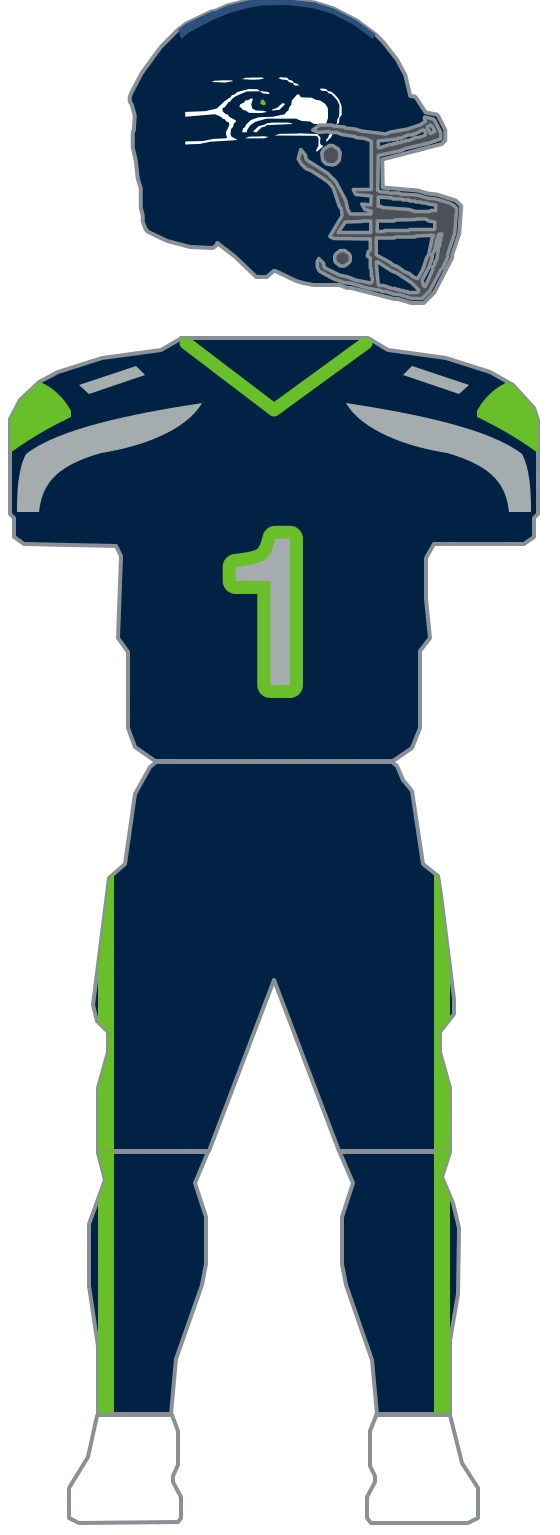
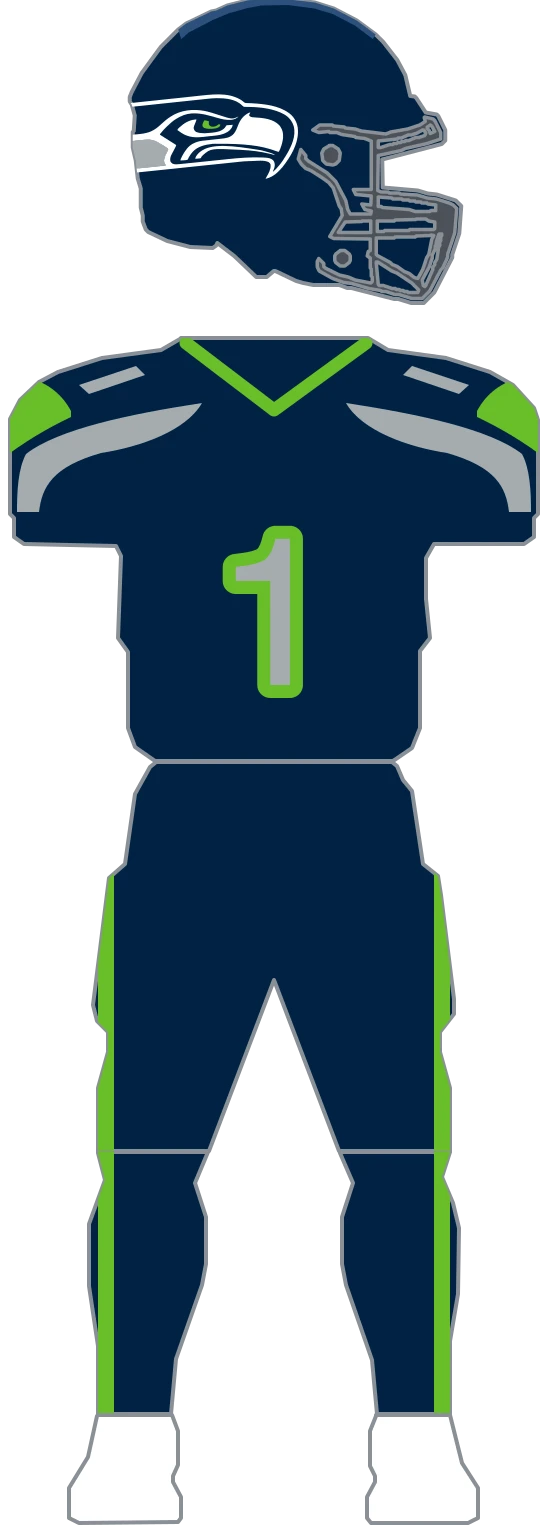
feat(uniforms): re-author the Seahawks helmet decal from a gate-passing reference (#659)
* feat(uniforms): re-author the Seahawks helmet decal from a gate-passing reference

The shipped decal was traced off the 46px GUD composite, where the hawk's white
keyline survives as 7 disconnected fragments totalling 31px. At helmet scale it
read as a field of slivers, and it was also placed wrong: half the size the
reference shows, centred instead of running to the rear edge, and missing the
wolf-grey wing entirely.

Re-traced at 1200px (thinnest white channel 20px = 1.67% of mark width; keyline
resolves to one component and holds under a 0.75x downscale), then scaled,
positioned and baked into raw helmet coordinates -- UniformLayer has no
transform field, so placement cannot live anywhere but the path data.

Placement is measured from the GUD helmet composite rather than the logo, which
is a separate failure axis from linework: 80% of shell width, flush to the rear
edge, 32% down, no rotation. A 0/-8/-15 degree sweep against the reference
picked 0 -- the mark reads as angled because of its own swept tail.

Three rasters change (home, away, rivalries -- full variant only; the jersey
crop excludes the helmet). Installed iOS builds fetch by URL and pick this up,
which is intended: accuracy is the bar (Decisions.md 2026-09-03).

* fix(uniforms): place the Seahawks decal as a wrapped mark, not a flat one

Three corrections from review, the first structural. A helmet decal wraps a
curved shell, so in a 2D side view its rear converges and disappears around the
[…]

Changed region(s): [[0.2429, 0.0306, 0.6071, 0.1225]]

diff --git a/lib/uniforms/teams/seahawks.ts b/lib/uniforms/teams/seahawks.ts
@@ -30,13 +30,46 @@ export const SEAHAWKS_HELMET_CENTER_COLOR = '#2B507C';
 // (Wikimedia `File:Seattle Seahawks logo.svg`, fair use; trademarked). Licence audit: the vault’s
 // Decisions.md, 2026-09-03.
 //
-// Produced by contour-tracing the decal's white keyline (upsampled 10x, Douglas-Peucker simplified)
-// and mapping it into raw helmet coordinates. The keyline is filled white and the shell reads
-// through the counters, which is why no navy backing shape is needed on the navy home/away shells.
+// Re-authored 2026-09-03 from a reference that clears the resolution gate, replacing a trace off
+// the 46px GUD composite whose keyline survived as 7 disconnected fragments totalling 31px. The
+// mark is traced at 1200px wide (thinnest white channel 20px = 1.67% of mark width; keyline
+// resolves to one component and holds under a 0.75x downscale), then scaled, positioned and
+// baked into raw helmet coordinates -- UniformLayer has no transform field, so placement cannot
+// live anywhere but the path data.
+//
+// PLACEMENT is measured from the GUD *helmet* composite, not from the logo, and is a separate
+// concern from linework -- getting the linework right and the placement wrong is what made the
+// first two passes well-drawn and obviously wrong. Three facts drive it, and the first is the one
+// that is easy to miss:
+//
+//   1. THE MARK IS NOT FULLY VISIBLE. A helmet decal wraps a curved shell, so in a 2D side view
+//      its rear converges and disappears around the back. The mark is therefore authored WIDER
+//      than the space it occupies and positioned to overhang the shell's rear edge (x=139), with
+//      `clip: true` trimming it. Scaling the whole logo to fit inside the silhouette -- which is
+//      the obvious thing to do -- shows the entire tail and reads wrong immediately.
+//   2. THE FRONT ANCHORS TO A LANDMARK. The beak tip reaches the facemask's left edge (x=476 in
+//      raw helmet space, the min x of the facemask geometry) and stops. That is a checkable
+//      target rather than a judgement, and it is what sets the scale: 66% of shell width.
+//   3. IT TILTS. -6 degrees, rising toward the front. Note an affine transform cannot reproduce
+//      the true foreshortening of a wrapped decal (the tail should compress toward the rear, not
+//      merely be cut off); -6 plus the rear clip is the closest approximation this renderer can
+//      express, and it is good enough at the sizes this art is consumed at.
+//
+// Final: 66% of shell width, right edge at x=476, top edge 30% down, -6 degrees. Verified side by
+// side against the helmet reference at matched scale, which is the acceptance check.
+//
+// Three layers now, painted grey -> white -> eye. The grey wing was MISSING from the previous
+// decal entirely: only the white channels and the eye were traced, so the mark lost the element
+// the reference puts at the lower rear. The navy body is still not painted -- it merges with the
+// navy shell, which is why the counters read through. That is correct for home and away and is a
+// known gap on the teal rivalries shell, tracked separately.
 export const SEAHAWKS_HELMET_HAWK_PATH =
-  'M439.9,222.4 L454.0,223.5 L457.2,227.5 L464.3,229.2 L467.0,233.6 L472.4,234.8 L478.3,238.7 L470.2,239.2 L467.5,238.1 L465.4,234.2 L458.3,232.5 L453.5,228.0 L442.1,226.9 L436.1,224.1 L439.9,223.0 Z M381.5,223.0 L404.8,223.0 L407.5,224.7 L398.8,226.9 L385.3,227.5 L363.6,226.3 L370.7,223.5 L381.5,223.5 Z M319.8,228.6 L342.5,228.6 L345.8,230.3 L330.1,233.1 L302.5,232.0 L309.5,229.2 L319.8,229.2 Z M520.5,244.8 L531.9,246.0 L535.2,249.9 L542.2,251.6 L549.2,257.2 L557.3,266.7 L562.8,280.7 L562.8,298.1 L558.4,303.7 L557.3,313.8 L553.0,316.6 L551.9,325.6 L548.1,328.4 L541.7,342.4 L533.5,350.8 L531.4,350.8 L532.5,346.3 L535.7,343.5 L537.3,338.5 L542.2,334.5 L549.8,317.7 L553.0,316.0 L554.1,307.1 L557.9,300.3 L558.4,277.9 L553.0,267.3 L542.2,256.1 L536.8,254.4 L533.5,250.5 L522.7,249.3 L520.0,247.7 L520.5,245.4 Z M375.5,246.0 L394.5,246.5 L398.8,249.9 L416.7,252.1 L418.8,256.1 L405.3,254.9 L399.3,250.5 L372.8,251.0 L350.6,260.5 L343.1,266.2 L339.8,271.2 L336.6,272.3 L329.0,282.4 L324.7,284.1 L324.7,290.3 L330.1,295.9 L335.0,297.0 L337.7,301.5 L351.2,308.8 L351.2,311.6 L346.9,315.5 L345.8,321.7 L341.4,326.1 L340.4,337.3 L342.5,341.3 L355.0,348.0 L299.8,351.4 L279.2,355.8 L250.0,357.0 L250.0,350.8 L284.1,350.2 L306.8,345.8 L331.7,344.6 L333.9,342.4 L331.2,336.2 L331.7,331.7 L338.2,318.3 L337.1,312.7 L332.2,311.0 L329.0,306.5 L324.7,305.4 L322.0,302.0 L309.5,296.4 L250.0,301.5 L250.0,291.9 L289.5,290.3 L312.8,285.2 L329.0,270.1 L340.9,262.2 L343.1,258.3 L349.0,256.6 L353.9,252.1 L375.5,246.5 Z M475.1,256.6 L477.8,256.6 L479.4,260.5 L482.7,262.8 L502.2,263.3 L511.9,267.8 L520.0,269.0 L530.3,276.2 L535.2,284.1 L535.7,303.7 L529.7,321.7 L523.8,321.7 L517.8,316.6 L506.5,315.5 L500.0,311.0 L483.2,309.9 L471.3,305.4 L412.3,305.4 L390.1,311.6 L380.4,318.3 L375.0,325.6 L372.3,332.9 L363.6,332.3 L365.8,324.5 L369.6,322.2 L371.2,317.7 L380.9,308.2 L396.6,302.6 L425.3,301.5 L449.1,296.4 L451.3,292.5 L456.2,289.1 L457.8,283.0 L462.1,277.4 L463.2,269.0 L473.5,257.2 L475.1,257.2 Z M381.5,264.5 L385.3,265.6 L382.0,276.8 L384.2,285.2 L392.3,289.1 L406.9,289.7 L413.4,291.9 L401.5,294.2 L377.2,293.6 L371.2,289.1 L365.3,288.0 L362.5,284.1 L358.2,281.8 L359.8,276.8 L367.4,272.9 L370.1,269.0 L375.5,268.4 L381.5,265.0 Z M443.2,274.6 L448.0,274.6 L449.1,277.4 L438.3,287.5 L423.7,289.1 L424.2,286.9 L433.4,284.1 L443.2,275.1 Z M421.0,313.2 L455.6,313.2 L462.7,314.4 L463.7,316.0 L413.4,318.3 L408.5,321.7 L402.6,322.8 L392.3,332.9 L386.4,331.7 L386.9,329.5 L397.2,320.0 L407.5,317.7 L414.0,314.4 L421.0,313.8 Z M476.2,334.5 L514.1,336.2 L520.5,343.0 L519.5,354.2 L521.6,358.1 L525.4,358.7 L524.9,361.5 L513.5,371.0 L511.9,370.4 L511.9,367.6 L516.2,360.3 L516.8,346.9 L515.1,341.8 L511.3,339.6 L428.6,339.0 L438.3,335.7 L476.2,335.1 Z M404.2,340.2 L416.7,341.8 L408.5,344.6 L369.6,344.6 L377.7,341.3 L404.2,340.7 Z';
+  'M90.5,265.4C91.8,265.6 92.2,265.7 93.1,266.7C99.9,273.2 106.2,276.7 115.7,276.6C118.6,276.6 121.4,276.2 124.1,275.9C124.9,275.8 125.6,275.7 126.4,275.7C128.4,275.5 130.5,275.2 132.5,275.0C134.7,274.8 136.9,274.5 139.1,274.3C142.9,273.9 146.7,273.5 150.5,273.1C156.1,272.5 161.6,271.9 167.1,271.3C169.7,271.1 172.3,270.8 174.9,270.5C175.1,270.5 175.4,270.5 175.7,270.4C181.8,269.8 187.9,269.1 194.1,268.5C194.2,268.5 194.2,268.5 194.9,268.4C199.5,267.9 204.2,267.4 208.8,266.9C212.6,266.5 216.4,266.1 220.2,265.7C220.5,265.7 220.7,265.7 221.0,265.6C227.1,265.0 233.2,264.3 239.4,263.7C239.6,263.6 239.9,263.6 240.1,263.6C242.7,263.3 245.3,263.0 247.9,262.8C253.4,262.2 258.9,261.6 264.4,261.0C268.5,260.6 272.5,260.2 276.5,259.7C278.7,259.5 280.9,259.3 283.0,259.0C290.7,258.2 298.4,257.4 306.2,257.0C306.4,257.0 306.7,257.0 307.0,257.0C321.2,256.3 335.9,257.0 349.4,262.0C349.6,262.1 349.9,262.2 350.1,262.3C356.2,264.5 362.4,267.8 367.2,272.2C368.8,273.7 370.1,274.2 372.3,274.1C373.0,274.1 373.6,274.2 374.3,274.2C374.7,274.2 375.0,274.2 375.4,274.2C378.0,274.2 380.6,274.4 383.2,274.5C383.5,274.5 383.8,274.6 384.1,274.6C408.5,276.0 437.1,279.1 457.2,294.0C457.6,294.3 458.0,294.5 458.4,294.8C467.6,302.0 473.3,312.1 475.0,323.6C478.1,348.8 465.6,373.0 451.5,392.8C451.3,393.1 451.1,393.4 450.9,393.7C448.9,396.5 446.8,399.1 444.7,401.8C444.6,401.9 444.6,401.9 444.1,402.5C441.5,405.6 438.9,408.6 435.8,411.4C435.5,411.6 435.3,411.9 435.0,412.2C427.9,418.8 420.1,423.6 410.6,425.7C411.3,424.0 412.1,422.5 413.0,421.0C416.7,415.0 421.4,406.0 420.7,398.8C420.7,398.4 420.6,397.9 420.6,397.4C420.1,395.1 418.9,393.7 417.0,392.4C408.2,387.6 392.7,389.9 383.0,390.1C382.6,390.1 382.3,390.1 381.9,390.1C380.9,390.1 379.9,390.1 378.9,390.1C378.7,390.1 378.7,390.1 378.0,390.2C370.9,390.3 363.9,391.0 356.9,391.7C355.4,391.9 353.9,392.0 352.5,392.2C349.9,392.5 347.4,392.7 344.8,393.0C341.0,393.4 337.3,393.8 333.5,394.2C327.1,394.8 320.7,395.5 314.3,396.2C305.2,397.1 296.1,398.1 287.0,399.0C283.3,399.4 279.6,399.8 276.0,400.2C275.8,400.2 275.8,400.2 274.7,400.3C265.0,401.3 255.4,402.3 245.7,403.3C245.5,403.4 245.5,403.4 244.4,403.5C234.5,404.5 224.6,405.5 214.8,406.6C214.3,406.6 213.9,406.6 213.5,406.7C211.3,406.9 209.2,407.1 207.1,407.4C206.6,407.4 206.2,407.5 205.8,407.5C204.9,407.6 204.1,407.7 203.2,407.8C189.1,409.2 174.9,410.7 160.8,412.2C158.8,412.4 156.8,412.6 154.8,412.8C154.4,412.8 154.0,412.9 153.6,412.9C147.3,413.6 141.0,414.2 134.7,414.9C128.3,415.6 122.0,416.2 115.6,416.9C111.9,417.3 108.1,417.7 104.3,418.1C101.8,418.3 99.3,418.6 96.8,418.9C95.3,419.0 93.9,419.2 92.5,419.3C74.7,421.2 74.7,421.2 67.2,420.0C66.9,420.0 66.7,420.0 66.4,419.9C58.7,418.8 52.4,415.3 47.7,409.0C42.9,402.3 41.8,395.1 43.1,387.1C44.1,381.2 45.9,375.6 48.0,370.0C48.0,369.8 48.0,369.8 48.3,369.0C49.7,365.1 51.3,361.3 52.9,357.4C54.2,354.2 55.6,350.9 56.9,347.6C58.5,343.5 60.1,339.5 61.8,335.5C63.3,331.7 64.9,327.9 66.4,324.1C68.1,319.8 69.9,315.5 71.6,311.3C72.6,308.9 73.5,306.5 74.5,304.1C74.6,303.8 74.7,303.6 74.8,303.3C75.3,302.3 75.7,301.2 76.1,300.1C77.5,296.6 79.0,293.0 80.5,289.5C81.5,287.1 82.5,284.6 83.5,282.1C84.6,279.1 85.8,276.1 87.1,273.2C87.2,272.9 87.3,272.5 87.5,272.2C88.4,269.9 89.4,267.7 90.5,265.4ZM93.6,277.2C93.4,277.5 93.3,277.9 93.1,278.3C88.5,289.9 88.5,289.9 86.6,294.4C85.1,298.0 83.6,301.6 82.2,305.2C80.6,309.1 79.1,313.0 77.4,316.9C76.1,320.0 74.9,323.1 73.6,326.1C72.1,330.1 70.5,334.0 68.8,338.0C68.7,338.4 68.5,338.8 68.3,339.2C68.2,339.6 68.0,340.0 67.9,340.4C67.8,340.5 67.8,340.5 67.5,341.4C67.2,342.0 66.9,342.7 66.5,343.3C66.2,344.2 66.2,344.2 66.3,345.7C79.2,344.4 92.0,343.0 104.9,341.7C106.4,341.5 107.9,341.4 109.4,341.2C109.7,341.2 110.0,341.1 110.3,341.1C115.2,340.6 120.1,340.1 125.0,339.6C130.0,339.1 135.0,338.5 140.1,338.0C143.1,337.7 146.2,337.4 149.3,337.0C151.5,336.8 153.6,336.6 155.7,336.4C156.9,336.3 158.2,336.1 159.4,336.0C177.1,334.2 187.9,329.5 200.8,317.3C206.7,311.6 213.1,306.2 220.1,301.7C220.3,301.5 220.6,301.3 220.8,301.2C240.9,287.9 266.0,285.5 289.2,290.0C298.1,291.8 306.7,294.6 315.3,297.4C344.0,306.8 344.0,306.8 355.6,301.3C355.8,301.2 355.8,301.2 356.4,300.9C353.4,304.9 348.1,306.7 343.3,307.5C332.4,308.8 322.3,306.1 311.9,303.1C309.5,302.4 307.2,301.7 304.8,301.0C304.5,300.9 304.3,300.9 304.0,300.8C285.9,295.6 265.9,291.6 247.6,298.0C247.4,298.1 247.4,298.1 246.7,298.4C241.8,300.1 237.3,302.4 232.9,305.1C232.6,305.3 232.4,305.4 232.1,305.6C225.5,309.7 219.5,314.8 214.0,320.3C213.7,320.5 213.4,320.8 213.1,321.1C208.3,325.8 203.7,330.8 199.5,336.1C199.5,336.6 199.6,337.1 199.6,337.5C200.4,338.1 201.2,338.6 202.0,339.1C202.5,339.4 203.0,339.7 203.5,340.0C203.8,340.2 204.1,340.3 204.3,340.5C205.7,341.3 207.0,342.2 208.3,343.1C210.2,344.3 212.2,345.6 214.2,346.8C216.2,348.1 218.1,349.3 220.1,350.6C224.0,353.2 227.9,355.6 231.9,358.0C231.8,359.3 231.3,360.2 230.8,361.4C230.6,361.8 230.4,362.1 230.2,362.5C230.0,362.9 229.8,363.3 229.6,363.8C229.3,364.2 229.1,364.6 228.9,365.0C227.7,367.4 226.5,369.7 225.3,372.0C225.2,372.1 225.2,372.1 224.9,372.7C224.3,373.8 223.7,374.9 223.1,376.1C220.5,381.1 219.2,384.7 220.2,390.4C221.1,392.6 222.8,394.2 224.8,395.4C229.1,397.3 234.1,396.7 238.7,396.2C239.2,396.2 239.7,396.1 240.2,396.1C241.6,395.9 243.0,395.8 244.5,395.6C246.0,395.5 247.5,395.3 249.0,395.2C251.7,394.9 254.3,394.6 257.0,394.3C260.8,393.9 264.7,393.5 268.5,393.2C274.8,392.5 281.0,391.9 287.3,391.2C287.6,391.2 288.0,391.1 288.4,391.1C291.1,390.8 293.7,390.5 296.4,390.3C299.4,390.0 302.4,389.6 305.4,389.3C305.7,389.3 306.1,389.3 306.5,389.2C312.7,388.6 318.9,387.9 325.2,387.3C328.6,386.9 332.1,386.6 335.6,386.2C358.7,383.8 381.4,382.0 404.6,383.0C405.3,383.0 406.0,383.1 406.7,383.1C413.2,383.3 421.1,383.9 426.0,388.8C428.7,392.1 429.2,396.0 428.9,400.2C428.5,403.1 427.5,405.8 426.3,408.5C426.0,409.2 425.8,409.9 425.5,410.6C425.6,410.8 425.8,411.1 425.9,411.3C428.1,409.4 430.1,407.5 432.1,405.3C432.7,404.5 433.4,403.8 434.1,403.1C435.8,401.2 437.4,399.3 439.0,397.3C439.3,396.9 439.6,396.6 439.9,396.2C441.5,394.2 443.1,392.1 444.6,389.9C444.8,389.5 445.1,389.1 445.4,388.7C448.0,384.9 450.4,381.0 452.8,376.9C452.9,376.7 453.1,376.4 453.2,376.2C462.6,360.0 471.7,340.2 467.1,321.2C464.3,310.8 457.6,302.5 448.4,297.0C428.0,285.5 401.8,282.3 378.6,281.9C378.3,281.9 377.9,281.9 377.5,281.9C375.7,281.8 373.9,281.8 372.1,281.8C371.5,281.8 370.8,281.8 370.2,281.8C369.9,281.8 369.6,281.8 369.3,281.8C366.5,281.7 365.1,280.3 363.2,278.4C350.5,265.9 329.3,264.2 312.6,264.3C306.8,264.4 301.1,264.9 295.4,265.5C294.6,265.6 293.8,265.6 293.1,265.7C291.0,265.9 289.0,266.2 286.9,266.4C284.6,266.6 282.4,266.9 280.2,267.1C276.3,267.5 272.4,267.9 268.6,268.3C262.7,268.9 256.8,269.6 251.0,270.2C248.6,270.4 246.2,270.7 243.9,270.9C243.6,271.0 243.4,271.0 243.1,271.0C236.9,271.7 230.6,272.3 224.4,273.0C224.2,273.0 223.9,273.0 223.6,273.1C217.3,273.8 210.9,274.4 204.6,275.1C204.3,275.1 204.0,275.2 203.7,275.2C202.3,275.3 201.0,275.5 199.6,275.6C199.3,275.7 199.1,275.7 198.8,275.7C198.2,275.8 197.7,275.8 197.1,275.9C188.0,276.8 178.9,277.8 169.9,278.8C168.6,278.9 167.3,279.0 166.0,279.2C165.7,279.2 165.5,279.2 165.2,279.3C161.2,279.7 157.1,280.1 153.1,280.5C149.0,281.0 144.9,281.4 140.8,281.8C138.6,282.1 136.4,282.3 134.2,282.5C132.2,282.8 130.1,283.0 128.1,283.2C127.4,283.3 126.7,283.3 125.9,283.4C116.4,284.5 105.6,285.1 97.1,279.8C96.4,279.1 95.8,278.4 95.2,277.6C95.1,277.5 95.1,277.5 94.7,277.1C94.3,277.1 93.9,277.2 93.6,277.2ZM60.7,358.8C60.1,360.1 59.6,361.5 59.0,362.8C58.9,363.2 58.7,363.6 58.5,364.0C47.5,390.4 47.5,390.4 51.5,400.7C53.9,405.7 57.1,409.0 62.2,411.0C68.7,413.3 75.6,412.9 82.5,412.4C82.7,412.4 83.0,412.4 83.3,412.3C89.3,411.9 95.2,411.3 101.2,410.6C102.7,410.5 104.1,410.3 105.6,410.2C108.2,409.9 110.7,409.6 113.3,409.4C117.0,409.0 120.7,408.6 124.4,408.2C130.4,407.6 136.4,406.9 142.4,406.3C148.2,405.7 154.1,405.1 159.9,404.4C160.2,404.4 160.6,404.4 161.0,404.3C162.8,404.1 164.6,404.0 166.4,403.8C181.4,402.2 196.3,400.6 211.2,399.0C211.1,397.6 210.5,396.9 209.6,395.8C207.8,393.0 207.3,390.6 207.7,387.2C208.7,382.1 211.1,377.2 213.4,372.5C213.5,372.3 213.5,372.3 213.9,371.5C214.2,370.8 214.6,370.1 214.9,369.5C215.0,369.2 215.2,368.9 215.3,368.6C215.4,368.4 215.4,368.4 215.7,367.8C216.0,366.7 215.8,366.2 215.4,365.2C214.6,364.6 213.8,364.0 212.9,363.4C212.7,363.3 212.4,363.1 212.2,362.9C210.1,361.5 207.9,360.2 205.8,358.8C204.6,358.1 203.4,357.3 202.2,356.6C191.8,349.8 183.5,346.4 170.9,347.3C170.8,347.3 170.8,347.3 170.2,347.4C164.7,347.8 159.4,348.3 154.0,348.9C152.9,349.0 151.9,349.1 150.9,349.2C148.7,349.5 146.5,349.7 144.3,349.9C141.2,350.3 138.0,350.6 134.9,350.9C129.7,351.5 124.6,352.0 119.5,352.5C114.5,353.1 109.5,353.6 104.6,354.1C104.3,354.2 103.9,354.2 103.6,354.2C102.1,354.4 100.5,354.5 99.0,354.7C86.2,356.1 73.5,357.4 60.7,358.8ZM380.1,292.9C379.8,294.0 379.3,294.8 378.7,295.7C378.1,296.8 378.0,297.2 377.9,298.5C378.4,300.1 378.9,300.5 380.3,301.3C383.2,302.7 386.5,302.7 389.7,302.9C406.2,303.8 426.2,305.8 438.2,318.6C444.3,326.0 446.4,334.6 445.6,344.0C444.8,351.0 443.0,357.6 440.5,364.2C440.4,364.5 440.3,364.9 440.2,365.2C439.3,367.4 438.3,369.5 437.2,371.6C435.8,371.5 434.6,371.2 433.3,370.8C432.9,370.6 432.5,370.5 432.1,370.3C431.7,370.2 431.3,370.0 430.9,369.9C401.8,359.3 370.3,354.8 305.9,355.6C305.5,355.7 305.2,355.7 304.8,355.7C290.4,357.3 274.9,360.4 264.8,371.8C264.7,371.9 264.5,372.1 264.3,372.3C261.7,375.3 259.5,378.5 257.5,382.0C257.4,382.1 257.4,382.1 257.0,382.8C256.6,383.6 256.6,383.6 256.2,384.7C255.7,385.9 255.4,386.6 254.4,387.5C252.1,388.4 249.6,388.4 247.2,388.5C246.5,388.6 245.9,388.6 245.2,388.7C243.5,388.8 241.9,388.9 240.3,389.0C240.4,387.6 240.9,386.4 241.5,385.0C241.6,384.8 241.7,384.6 241.8,384.3C244.7,377.9 248.3,372.0 252.6,366.5C252.7,366.2 252.9,365.9 253.1,365.7C260.3,356.2 271.9,351.2 283.5,349.6C284.7,349.5 285.9,349.3 287.2,349.2C287.9,349.1 288.6,349.0 289.3,349.0C290.1,348.9 290.8,348.8 291.6,348.7C293.2,348.5 294.7,348.4 296.3,348.2C300.8,347.7 305.4,347.2 309.9,346.7C312.4,346.4 314.9,346.2 317.4,345.9C318.7,345.8 320.0,345.6 321.3,345.5C331.3,344.4 340.6,343.3 347.4,335.1C351.2,330.2 353.6,324.3 355.7,318.5C359.8,307.6 366.6,298.7 377.3,293.6C378.7,293.1 378.7,293.1 380.1,292.9ZM269.4,307.1C269.7,307.1 270.0,307.0 270.3,307.0C270.9,306.9 271.6,306.9 272.3,306.8C272.3,308.4 271.8,309.7 271.2,311.1C271.0,311.6 270.8,312.1 270.6,312.6C270.3,313.3 270.0,314.1 269.7,314.8C266.2,323.5 266.2,323.5 267.8,327.6C269.0,330.1 270.9,331.5 273.4,332.5C278.1,334.0 283.1,334.5 288.1,334.5C288.2,334.5 288.2,334.5 289.0,334.5C292.9,334.4 296.8,334.0 300.7,333.6C301.9,333.5 303.1,333.4 304.4,333.3C313.4,332.4 322.8,330.5 329.2,323.5C330.1,322.3 330.9,321.0 331.7,319.7C332.2,318.8 332.2,318.8 333.3,318.4C334.1,318.3 334.1,318.3 334.9,318.4C337.0,318.4 339.1,318.2 341.2,317.9C341.5,317.9 341.9,317.8 342.3,317.8C343.2,317.7 344.1,317.6 344.9,317.5C344.6,322.0 341.4,326.2 338.2,329.1C330.4,335.4 321.1,338.0 311.2,339.1C310.8,339.1 310.5,339.2 310.1,339.2C308.8,339.3 307.6,339.5 306.4,339.6C305.5,339.7 304.6,339.8 303.8,339.9C302.0,340.1 300.1,340.3 298.3,340.4C296.0,340.7 293.7,340.9 291.4,341.2C289.6,341.4 287.8,341.6 286.0,341.8C285.1,341.8 284.3,341.9 283.4,342.0C265.9,343.9 251.9,341.5 237.7,330.5C236.7,329.7 235.7,329.0 234.6,328.4C234.6,327.2 234.7,326.6 235.4,325.7C236.4,324.7 237.4,323.8 238.4,322.8C238.6,322.7 238.8,322.5 239.0,322.3C247.3,314.5 257.8,308.2 269.4,307.1ZM401.6,368.5C402.4,368.7 403.1,368.8 403.8,369.0C412.5,371.1 421.1,373.6 429.3,377.2C428.0,377.8 427.2,377.7 425.9,377.3C425.5,377.2 425.0,377.1 424.6,377.0C424.2,376.9 423.7,376.7 423.3,376.6C422.3,376.4 421.3,376.1 420.4,375.9C420.1,375.8 419.9,375.8 419.6,375.7C400.9,371.1 381.6,368.7 362.3,367.8C362.1,367.7 361.8,367.7 361.5,367.7C301.4,364.7 301.4,364.7 286.2,377.6C282.6,380.9 282.6,380.9 282.1,382.3C281.8,383.2 281.5,383.7 280.8,384.4C279.0,384.9 277.2,385.0 275.3,385.1C274.8,385.2 274.3,385.2 273.7,385.3C272.5,385.4 271.2,385.4 270.0,385.5C270.6,380.2 275.9,374.7 279.9,371.5C302.8,353.7 344.9,359.4 401.6,368.5Z';
+// The wolf-grey wing at the lower rear of the mark, under the white keyline.
+export const SEAHAWKS_HELMET_HAWK_GREY_PATH =
+  'M62.5,358.5C62.9,358.4 63.3,358.4 63.7,358.3C63.9,358.3 63.9,358.3 65.0,358.2C65.4,358.2 65.9,358.1 66.4,358.1C67.6,357.9 68.9,357.8 70.2,357.7C71.5,357.5 72.9,357.4 74.2,357.2C76.9,356.9 79.6,356.7 82.2,356.4C84.4,356.2 86.6,355.9 88.7,355.7C88.9,355.7 88.9,355.7 89.7,355.6C90.3,355.5 90.9,355.5 91.6,355.4C97.5,354.8 103.4,354.2 109.2,353.6C114.3,353.0 119.3,352.5 124.4,352.0C130.2,351.3 136.1,350.7 142.0,350.1C142.6,350.0 143.2,350.0 143.8,349.9C144.0,349.9 144.0,349.9 144.8,349.8C146.9,349.6 149.1,349.4 151.3,349.1C153.9,348.9 156.6,348.6 159.2,348.3C160.5,348.2 161.9,348.0 163.2,347.9C176.5,346.5 186.6,346.6 198.1,353.8C198.5,354.1 199.0,354.4 199.5,354.7C202.2,356.4 204.8,358.1 207.5,359.9C209.5,361.2 211.6,362.5 213.6,363.8C214.5,364.3 215.4,364.9 216.2,365.5C216.2,367.1 215.6,368.3 214.9,369.8C214.8,370.0 214.7,370.2 214.6,370.5C214.4,371.0 214.2,371.4 213.9,371.9C213.3,373.2 212.8,374.5 212.2,375.7C212.1,376.0 212.0,376.2 211.9,376.5C206.7,387.9 206.7,387.9 208.0,392.4C208.7,394.1 209.6,395.6 210.8,397.0C211.5,397.9 211.5,397.9 211.6,399.0C195.0,400.7 178.4,402.5 161.9,404.3C159.9,404.5 157.9,404.7 156.0,404.9C155.6,404.9 155.2,405.0 154.8,405.0C148.5,405.7 142.2,406.3 135.9,407.0C129.4,407.7 122.9,408.4 116.4,409.1C112.4,409.5 108.5,409.9 104.5,410.3C101.7,410.6 99.0,410.9 96.2,411.2C94.6,411.4 93.1,411.5 91.5,411.7C65.3,414.5 65.3,414.5 56.7,407.9C52.7,404.7 50.6,400.0 50.1,395.0C49.9,392.1 50.2,389.4 50.8,386.6C50.9,386.1 51.0,385.6 51.1,385.2C52.5,377.8 55.7,370.7 58.4,363.7C58.5,363.3 58.7,362.9 58.9,362.5C58.9,362.3 58.9,362.3 59.3,361.3C59.4,361.0 59.6,360.7 59.7,360.3C60.4,358.8 60.9,358.6 62.5,358.5Z';
 export const SEAHAWKS_HELMET_HAWK_EYE_PATH =
-  'M403.1,266.7 L406.4,267.3 L411.2,274.0 L410.2,277.9 L406.4,278.5 L400.4,275.7 L400.4,270.6 L403.1,267.3 Z';
+  'M287.9,308.8C290.1,308.8 292.0,309.1 294.0,309.6C294.3,309.7 294.6,309.7 294.9,309.8C296.8,310.3 296.8,310.3 297.4,311.1C297.4,311.9 297.4,311.9 297.2,313.1C296.9,315.1 297.0,316.8 298.2,318.5C300.0,320.3 301.8,321.2 304.3,321.4C309.4,321.5 312.8,320.1 316.6,316.7C317.8,316.2 318.8,316.8 320.0,317.2C320.1,318.3 320.0,319.1 319.4,320.1C317.1,322.9 313.7,324.3 310.1,324.8C310.0,324.9 310.0,324.9 309.1,325.0C302.3,325.8 293.2,326.7 286.9,323.2C285.2,321.8 284.6,320.8 284.4,318.6C284.5,315.1 286.3,311.8 287.9,308.8Z';
 
 // The shoulder sweep, shared by the home and away kits: a band tapering to a point near the
 // sternum, arcing up over the shoulder and running down the outer sleeve to the hem (y≈557, just
@@ -137,6 +170,14 @@ function shoulderLayers(band: ColorRef, cap: ColorRef): UniformLayer[] {
 // excluded: that era used an entirely different mark, so it gets its stacked bands and no decal.
 function hawkLayers(keyline: ColorRef, eye: ColorRef): UniformLayer[] {
   return [
+    {
+      id: 'seahawks-helmet-hawk-grey',
+      surface: 'helmet',
+      d: SEAHAWKS_HELMET_HAWK_GREY_PATH,
+      clip: true,
+      kind: 'fill',
+      fill: SEAHAWKS_WOLF_GREY,
+    },
     {
       id: 'seahawks-helmet-hawk',
       surface: 'helmet',

diff --git a/lib/uniforms/teams/seahawks.parts.ts b/lib/uniforms/teams/seahawks.parts.ts
@@ -28,6 +28,7 @@ import {
   SEAHAWKS_1976_SLEEVE_WHITE_LEFT,
   SEAHAWKS_1976_SLEEVE_WHITE_RIGHT,
   SEAHAWKS_HELMET_HAWK_EYE_PATH,
+  SEAHAWKS_HELMET_HAWK_GREY_PATH,
   SEAHAWKS_HELMET_HAWK_PATH,
   SEAHAWKS_SHOULDER_BAND_LEFT,
   SEAHAWKS_SHOULDER_BAND_RIGHT,
@@ -57,10 +58,12 @@ const fill = (id: string, surface: UniformSurface, d: string, color: string): Pa
   fill: color,
 });
 
-// The modern decal: a white keyline whose counters let the shell read through, plus the eye.
-// There is no navy backing shape, which is why the mark only works on a shell it contrasts with.
+// The modern decal: the wolf-grey wing, then a white keyline whose counters let the shell read
+// through, then the eye. There is no navy backing shape, which is why the mark only works on a
+// shell it contrasts with. Geometry and placement rationale live in seahawks.ts.
 function hawk(eye: string): PartLayer[] {
   return [
+    fill('seahawks-helmet-hawk-grey', 'helmet', SEAHAWKS_HELMET_HAWK_GREY_PATH, 'wolfGrey'),
     fill('seahawks-helmet-hawk', 'helmet', SEAHAWKS_HELMET_HAWK_PATH, 'white'),
     fill('seahawks-helmet-hawk-eye', 'helmet', SEAHAWKS_HELMET_HAWK_EYE_PATH, eye),
   ];

diff --git a/lib/uniforms/teams/definitions.test.ts b/lib/uniforms/teams/definitions.test.ts
@@ -89,6 +89,8 @@ describe('team uniform definitions', () => {
     // What the kit paints is unchanged — parts-parity.test.ts holds the rasters byte-identical.
     expect(layerIds?.filter((id) => id.startsWith('seahawks-'))).toEqual([
       'seahawks-helmet-center-stripe',
+      // Grey wing paints under the keyline; it was missing from the pre-2026-09-03 decal.
+      'seahawks-helmet-hawk-grey',
       'seahawks-helmet-hawk',
       'seahawks-helmet-hawk-eye',
       'seahawks-shoulder-bar-left',
